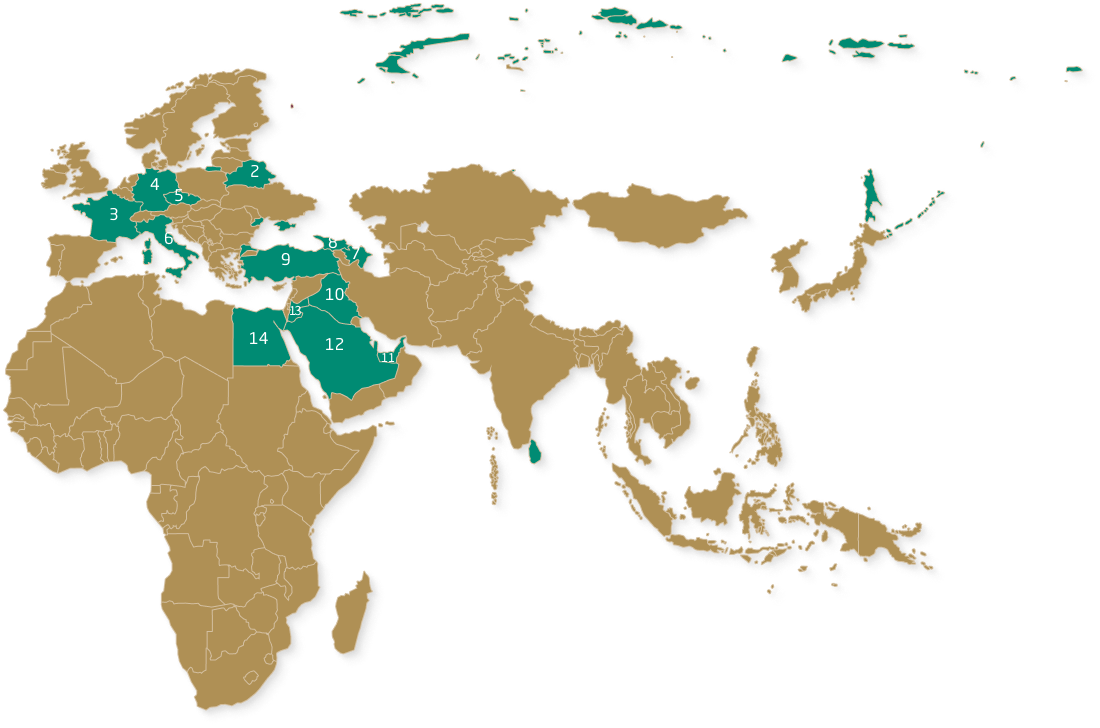
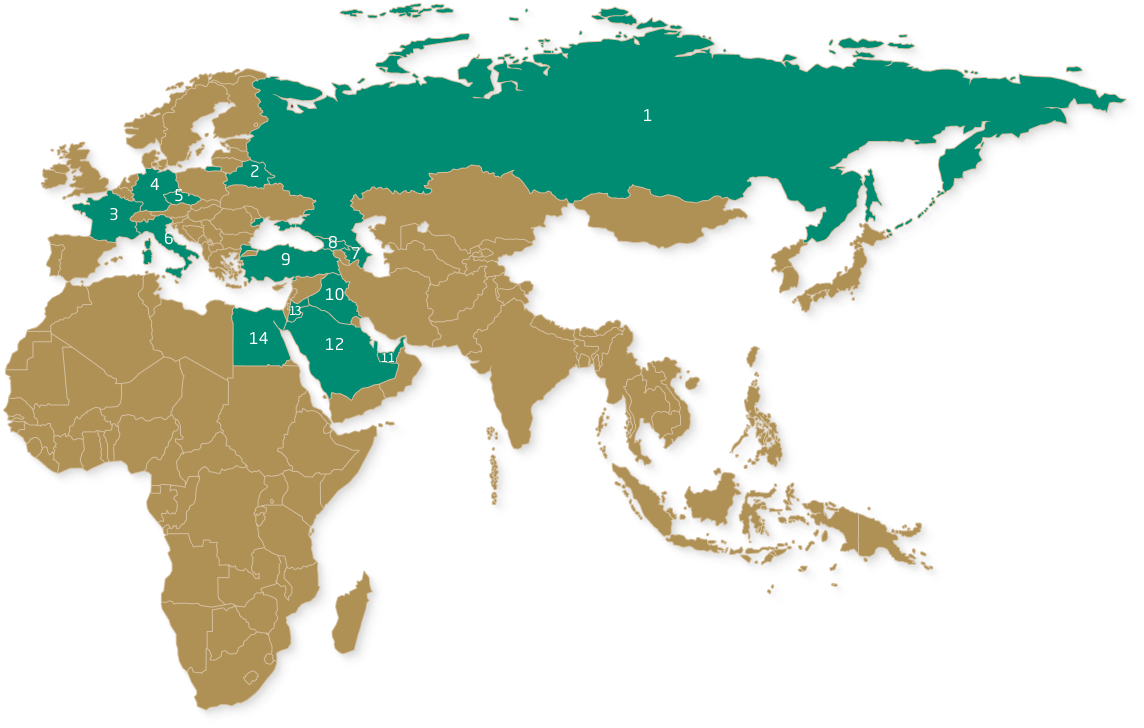
1111111111111mfmfmfmfmfmf

diff --git a/src/assets/scss/blocks/main.scss b/src/assets/scss/blocks/main.scss
@@ -666,9 +666,9 @@
 
             .Aravia {
                 position: absolute;
-                left: 25.9%;
-                top: 42%;
-                width: 10.4%;
+                left: 24.7%;
+                top: 41.7%;
+                width: 10.3%;
 
                 &:hover {
                     transform: scale(1.2);
@@ -682,9 +682,9 @@
 
             .Russia {
                 position: absolute;
-                top: 4.2%;
-                left: 22.5%;
-                width: 79.9%;
+                top: 3.9%;
+                left: 21.5%;
+                width: 77%;
 
                 &:hover {
                     transform: scale(1.03);
@@ -697,7 +697,7 @@
 
             .Belarus {
                 position: absolute;
-                left: 20.3%;
+                left: 19.4%;
                 top: 22%;
                 width: 4.8%;
                 
@@ -713,9 +713,9 @@
 
             .Franch {
                 position: absolute;
-                left: 6.5%;
-                top: 26.1%;
-                width: 6.5%;
+                left: 6.3%;
+                top: 26%;
+                width: 6.4%;
 
                 &:hover {
                     transform: scale(1.2);
@@ -729,8 +729,8 @@
             .Germany {
                 position: absolute;
                 top: 22.7%;
-                left: 11.9%;
-                width: 4.8%;
+                left: 11.3%;
+                width: 4.6%;
 
                 &:hover {
                     transform: scale(1.2);
@@ -744,8 +744,8 @@
             .Chezh {
                 position: absolute;
                 top: 26.1%;
-                left: 14.9%;
-                width: 3.8%;
+                left: 14.4%;
+                width: 3.4%;
 
                 &:hover {
                     transform: scale(1.2);
@@ -758,8 +758,8 @@
 
             .Italy {
                 position: absolute;
-                top: 29.6%;
-                left: 12.2%;
+                top: 29.3%;
+                left: 11.6%;
                 width: 6%;
 
                 &:hover {
@@ -773,8 +773,8 @@
 
             .Armenya {
                 position: absolute;
-                top: 33.6%;
-                left: 31%;
+                top: 33.5%;
+                left: 29.8%;
                 width: 2.9%;
 
                 &:hover {
@@ -788,9 +788,10 @@
 
             .Gruzia {
                 position: absolute;
-                top: 32.2%;
-                left: 28.5%;
-                width: 3.5%;
+                top: 32%;
+                left: 27.1%;
+                width: 3.6%;
+            
 
                 &:hover {
                     transform: scale(1.2);
@@ -804,8 +805,8 @@
             .Turkey {
                 position: absolute;
                 top: 33.4%;
-                left: 21.7%;
-                width: 9.5%;
+                left: 20.8%;
+                width: 9.2%;
 
                 &:hover {
                     transform: scale(1.2);
@@ -819,8 +820,8 @@
             .Irac {
                 position: absolute;
                 top: 37.4%;
-                width: 5.1%;
-                left: 28%;
+                left: 26.9%;
+                width: 5%;
 
                 &:hover {
                     transform: scale(1.2);
@@ -833,9 +834,9 @@
 
             .OAE {
                 position: absolute;
-                width: 2.8%;
                 top: 46.2%;
-                left: 34.3%;
+                width: 2.8%;
+                left: 32.9%;
 
                 &:hover {
                     transform: scale(1.2);
@@ -848,8 +849,8 @@
 
             .Iordania {
                 position: absolute;
-                top: 40.9%;
-                left: 26%;
+                top: 40.5%;
+                left: 25%;
                 width: 2.3%;
                 &:hover {
                     transform: scale(1.2);
@@ -862,7 +863,7 @@
 
             .Eagypt {
                 position: absolute;
-                left: 21.1%;
+                left: 20.2%;
                 top: 42%;
                 width: 5.4%;
 
@@ -877,9 +878,9 @@
 
             .China {
                 position: absolute;
-                left: 45%;
-                top: 24.4%;
-                width: 30.2%;
+                left: 43.2%;
+                top: 24%;
+                width: 29.2%;
 
                 &:hover {
                     transform: scale(1.1);
@@ -892,8 +893,8 @@
 
             .ShriLanka {
                 position: absolute;
-                top: 60.3%;
-                left: 48%;
+                top: 59.9%;
+                left: 46.2%;
                 width: 1.3%;
 
                 &:hover {
@@ -907,9 +908,9 @@
 
             .Malayzia {
                 position: absolute;
-                width: 9.6%;
                 top: 62.4%;
-                left: 58.1%;
+                left: 55.9%;
+                width: 9.3%;
 
                 &:hover {
                     transform: scale(1.1);
